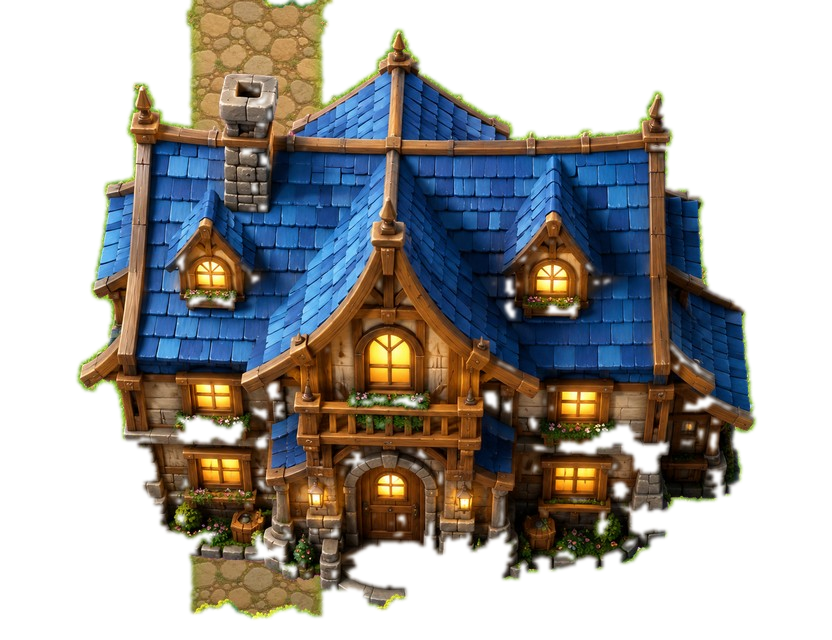
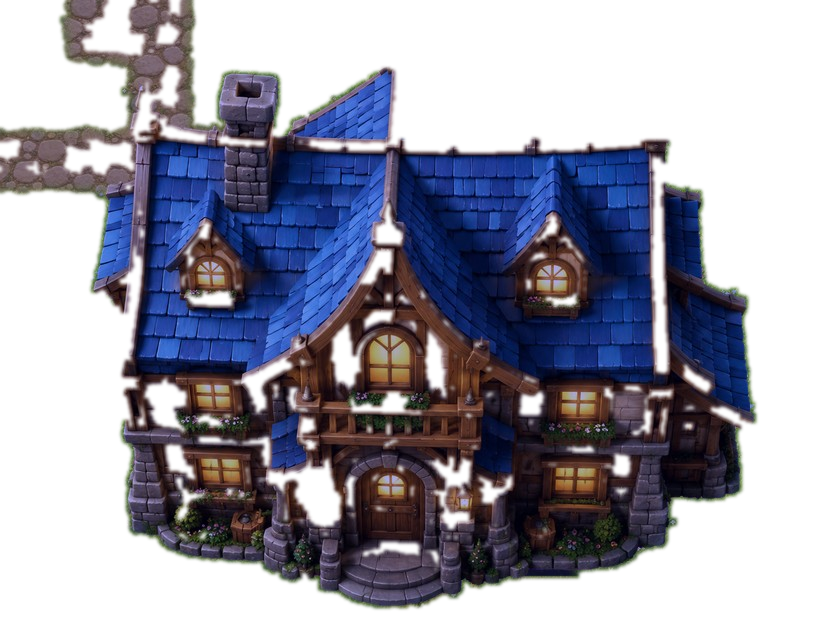
Mapa refeito seguindo a geometria e o clima do mapa de referência
Correção das causas reais da versão anterior (que descaracterizava o original):

- Terreno deixa de vir de retângulos declarados e passa a ser LIDO do mapa de
  referência tile a tile (tools/terreno_ref.json): rio serpenteante, praça
  octogonal, caminhos radiais e penhascos nas posições verdadeiras
- Classificador exige que a água DOMINE o tile (fração de pixels azuis > 0.62)
  e filtra por conectividade — cristais e névoa azulada não viram mais rio;
  praça mantém só o bloco central
- tile-penhasco entra no terreno; vegetação não invade praça, caminhos nem
  penhascos (626 tiles, antes 700 cobrindo tudo)
- Correção de cor final para o clima noturno/místico da referência, no lugar
  do verde-dia saturado

https://claude.ai/code/session_01Ptxikgi5AxJeGEyX3c5e2R

diff --git a/tools/build_map.py b/tools/build_map.py
@@ -113,28 +113,46 @@ REMASTER = Image.open(_rp).convert('RGB') if os.path.exists(_rp) else None
 
 canvas = pano(tex['grama']) if tex['grama'] else Image.new('RGB', (W, H), (74, 128, 60))
 
-# máscaras de terreno
+# ── terreno REAL extraído do mapa de referência (tools/terreno_ref.json) ──
+# Substitui as máscaras retangulares: rio serpenteante, praça octogonal,
+# caminhos radiais e penhascos exatamente como no mapa original.
+_tref = os.path.join(ROOT, 'tools', 'terreno_ref.json')
+TERR = json.load(open(_tref)) if os.path.exists(_tref) else None
+
 water_cells, praca_cells, path_cells = set(), set(), set()
-for w_ in layout['water']:
-    for y in range(w_['y0'], w_['y1'] + 1):
-        for x in range(w_['x0'], w_['x1'] + 1): water_cells.add((x, y))
-pc = layout['praca']
-for y in range(N):
-    for x in range(N):
-        if math.hypot(x + .5 - pc['cx'], y + .5 - pc['cy']) <= pc['raio']: praca_cells.add((x, y))
-for c in layout['caminhos']:
-    (x0, y0), (x1, y1) = c['de'], c['para']; lw = c['largura']
-    steps = max(abs(x1 - x0), abs(y1 - y0)) * 2 + 1
-    for i in range(steps + 1):
-        fx, fy = x0 + (x1 - x0) * i / steps, y0 + (y1 - y0) * i / steps
-        for dy in range(-(lw // 2), lw - lw // 2):
-            for dx in range(-(lw // 2), lw - lw // 2):
-                cx_, cy_ = int(fx + dx), int(fy + dy)
-                if 0 <= cx_ < N and 0 <= cy_ < N: path_cells.add((cx_, cy_))
-path_cells -= water_cells | praca_cells
+cliff_cells = set()
+if TERR:
+    for k, t in TERR.items():
+        x, y = map(int, k.split(','))
+        if   t == 'agua':     water_cells.add((x, y))
+        elif t == 'praca':    praca_cells.add((x, y))
+        elif t == 'caminho':  path_cells.add((x, y))
+        elif t == 'penhasco': cliff_cells.add((x, y))
+if not TERR:
+    pass
+if not TERR:   # fallback: layout declarativo (usado só se faltar a referência)
+    for w_ in layout['water']:
+        for y in range(w_['y0'], w_['y1'] + 1):
+            for x in range(w_['x0'], w_['x1'] + 1): water_cells.add((x, y))
+    pc = layout['praca']
+    for y in range(N):
+        for x in range(N):
+            if math.hypot(x + .5 - pc['cx'], y + .5 - pc['cy']) <= pc['raio']: praca_cells.add((x, y))
+    for c in layout['caminhos']:
+        (x0, y0), (x1, y1) = c['de'], c['para']; lw = c['largura']
+        steps = max(abs(x1 - x0), abs(y1 - y0)) * 2 + 1
+        for i in range(steps + 1):
+            fx, fy = x0 + (x1 - x0) * i / steps, y0 + (y1 - y0) * i / steps
+            for dy in range(-(lw // 2), lw - lw // 2):
+                for dx in range(-(lw // 2), lw - lw // 2):
+                    cx_, cy_ = int(fx + dx), int(fy + dy)
+                    if 0 <= cx_ < N and 0 <= cy_ < N: path_cells.add((cx_, cy_))
+    path_cells -= water_cells | praca_cells
 canvas = compor_terreno(canvas, tex['caminho'], sorted(path_cells), feather=7)
 canvas = compor_terreno(canvas, tex['praca'], sorted(praca_cells - water_cells), feather=5)
 canvas = compor_terreno(canvas, tex['agua'], sorted(water_cells), feather=4)
+tex['penhasco'] = load_asset('tile-penhasco.png')
+if cliff_cells: canvas = compor_terreno(canvas, tex['penhasco'], sorted(cliff_cells), feather=5)
 
 # ── molduras de fronteira (leva 2): margens de rio e meio-fio da praça ──
 # Para cada tile do terreno na fronteira, a vizinhança define a peça:
@@ -235,6 +253,7 @@ for y in range(1, N - 1):
     for x in range(1, N - 1):
         if GRID[y][x] != 1: continue
         if (x, y) in water_cells or (x, y) in building_cells: continue
+        if (x, y) in praca_cells or (x, y) in path_cells or (x, y) in cliff_cells: continue
         if oz['x0'] <= x <= oz['x1'] and oz['y0'] <= y <= oz['y1']: continue
         veg.append((x, y))
 for (x, y) in veg:
@@ -285,7 +304,19 @@ aplicar_molduras(final_ground, praca_cells, 'meiofio', escala=1.8)
 final = final_ground
 final.alpha_composite(dark)        # sombras entre o chão e os props
 final.alpha_composite(prop_layer)  # edifícios e vegetação por cima
-final.convert('RGB').save(out_path, quality=90, optimize=True)
+# ── clima: o mapa de referência é NOTURNO/místico, não dia claro ──
+# escurece, tira saturação do verde e injeta azul nas sombras
+rgb = final.convert('RGB')
+px_ = rgb.load()
+for yy in range(H):
+    for xx in range(W):
+        r, g, b = px_[xx, yy]
+        lum = (r * 0.3 + g * 0.55 + b * 0.15)
+        r = int(r * 0.60 + lum * 0.06)
+        g = int(g * 0.62 + lum * 0.05)
+        b = int(b * 0.78 + lum * 0.14) + 12
+        px_[xx, yy] = (min(255, r), min(255, g), min(255, b))
+rgb.save(out_path, quality=90, optimize=True)
 print('mapa composto:', out_path, f'{W}x{H}')
 print(f'terreno: agua={len(water_cells)} praca={len(praca_cells)} caminho={len(path_cells)}')
 print(f'edificios={len(layout["edificios"])} vegetacao={len(veg)} tiles')
